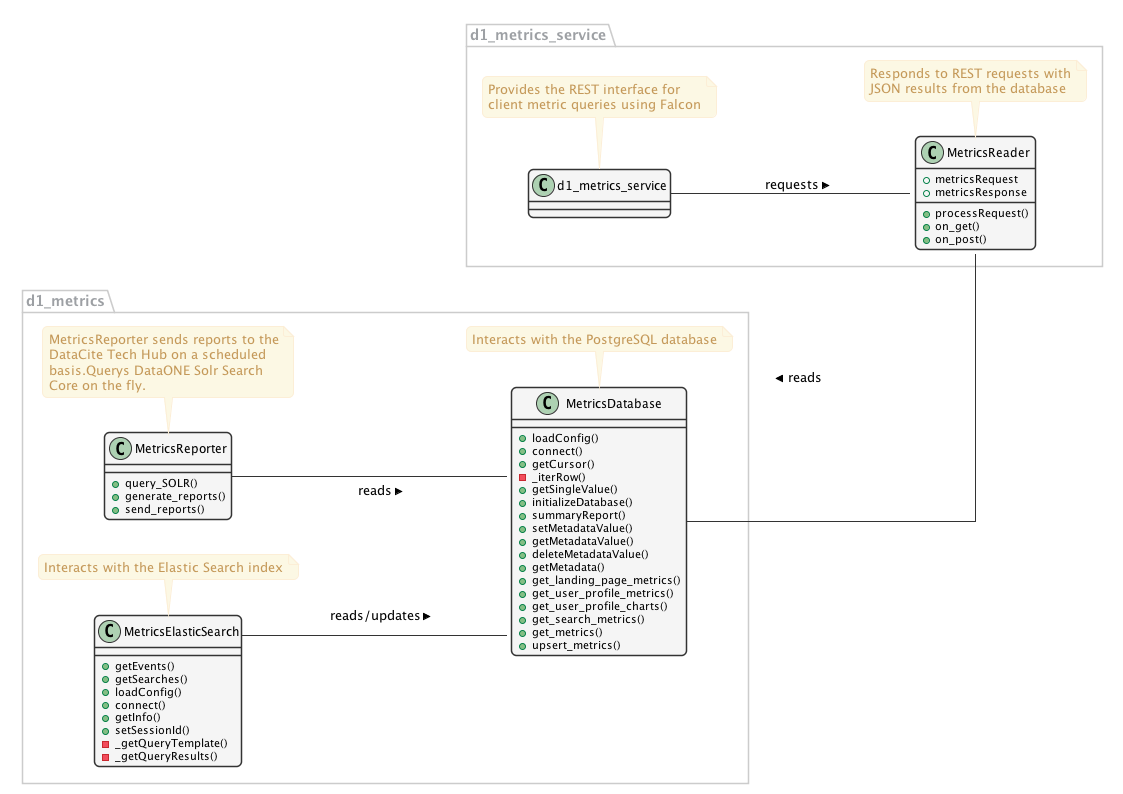
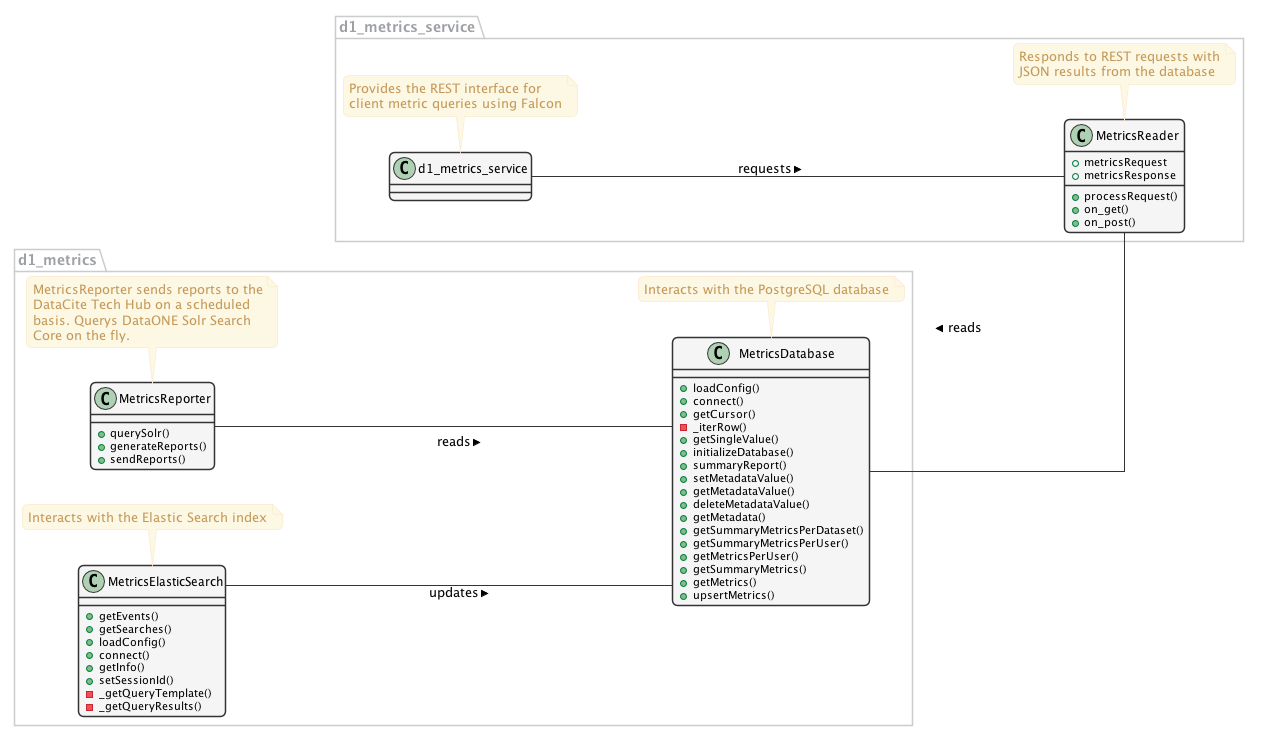
Updated Class Diagram

diff --git a/doc/class-diagram.rst b/doc/class-diagram.rst
@@ -1,17 +1,21 @@
 Metrics Service Class Diagram
 ==============================
 
-- The Falcon `d1_metrics_service.py` is where the Falcon API creates a WSGI application and the Gunicorn server runs this application.
+- The Falcon `d1_metrics_service` class is where the Falcon API creates a WSGI application and the Gunicorn server runs this application.
 
-- Resource object is created from the class `MetricsReader` which is eventually mapped to the end-points into the `d1_metrics_service.py`.
+- Resource object is created from the class `MetricsReader` which is eventually mapped to the end-points into the `d1_metrics_service`.
 
 - The JSON `MetricsRequest` object from the HTTP requests is passed on to the `MetricsReader` class for further processing.
 
 - The `MetricsReader` class parses the `MetricsRequest` object and based on the filtering properties calls the appropriate method of the `MetricsDatabase` class from the `d1_metrics` package.
 
-- The `MetricsDatabase` class has methods that establishes a connection pool and returns a cursor object that can perform the `DBMS CRUD` operations. This class has methods that would query the Database tables and/or Materialized views.
+- The `MetricsDatabase` class has methods that establishes connection and returns a cursor that could perform `CRUD` operations on the database. This class also has multiple methods that helps interact with the PostgreSQL database. 
 
 - The `MetricsDatabase` class retrieves the queries results from the Database and returns the results to the `MetricsReader` class. The `MetricsReader` class forms a `MetricsResponse` object which is sent back to the client as HTTP Response.
+
+- The `MetricsReporter` class queries `solr` to get the metadata for the generation of reports on a scheduled basis. These reports are send to the hub on month-to-month basis.
+
+- The `MetricsElasticSearch` class has methods to retrieve information from the Elastic Search.
 
 
 Class Diagram
@@ -27,90 +31,90 @@ Class Diagram
     ' For class diagram help see http://plantuml.com/class-diagram
     ' Define the classes
 
-package d1_metrics {
-    class MetricsDatabase {
-        + loadConfig()
-        + connect()
-        + getCursor()
-        - _iterRow()
-        + getSingleValue()
-        + initializeDatabase()
-        + summaryReport()
-        + setMetadataValue()
-        + getMetadataValue()
-        + deleteMetadataValue()
-        + getMetadata()
-        + get_landing_page_metrics()
-        + get_user_profile_metrics()
-        + get_user_profile_charts()
-        + get_search_metrics()
-        + get_metrics()
-        + upsert_metrics()
-    }
-    
-    note bottom of MetricsDatabase
-        Interacts with the PostgreSQL database
-    end note
-    
-    class MetricsReporter {
-        + query_SOLR()
-        + generate_reports()
-        + send_reports()
-    }
-    
-    note bottom of MetricsReporter
-        MetricsReporter sends reports to the
-        DataCite Tech Hub on a scheduled 
-        basis.Querys DataONE Solr Search 
-        Core on the fly.
-    end note
-    
-    class MetricsElasticSearch {
-        + getEvents()
-        + getSearches()
-        + loadConfig()
-        + connect()
-        + getInfo()
-        + setSessionId()
-        - _getQueryTemplate()
-        - _getQueryResults()
-    }
-    
-    note bottom of MetricsElasticSearch
-        Interacts with the Elastic Search index
-    end note
-
-}
-
-package d1_metrics_service {
-    class MetricsReader {
-        + metricsRequest
-        + metricsResponse
-        + processRequest()
-        + on_get()
-        + on_post()
-    }
-
-    note bottom of MetricsReader
-        Responds to REST requests with
-        JSON results from the database
-    end note
-
-    class d1_metrics_service {
+    package d1_metrics {
+        class MetricsDatabase {
+            + loadConfig()
+            + connect()
+            + getCursor()
+            - _iterRow()
+            + getSingleValue()
+            + initializeDatabase()
+            + summaryReport()
+            + setMetadataValue()
+            + getMetadataValue()
+            + deleteMetadataValue()
+            + getMetadata()
+            + getSummaryMetricsPerDataset()
+            + getSummaryMetricsPerUser()
+            + getMetricsPerUser()
+            + getSummaryMetrics()
+            + getMetrics()
+            + upsertMetrics()
+        }
+        
+        note bottom of MetricsDatabase
+            Interacts with the PostgreSQL database
+        end note
+        
+        class MetricsReporter {
+            + querySolr()
+            + generateReports()
+            + sendReports()
+        }
+        
+        note bottom of MetricsReporter
+            MetricsReporter sends reports to the
+            DataCite Tech Hub on a scheduled 
+            basis. Querys DataONE Solr Search 
+            Core on the fly.
+        end note
+        
+        class MetricsElasticSearch {
+            + getEvents()
+            + getSearches()
+            + loadConfig()
+            + connect()
+            + getInfo()
+            + setSessionId()
+            - _getQueryTemplate()
+            - _getQueryResults()
+        }
+        
+        note bottom of MetricsElasticSearch
+            Interacts with the Elastic Search index
+        end note
 
     }
-    
-    note bottom of d1_metrics_service
-        Provides the REST interface for
-        client metric queries using Falcon
-    end note
 
-}
+    package d1_metrics_service {
+        class MetricsReader {
+            + metricsRequest
+            + metricsResponse
+            + processRequest()
+            + on_get()
+            + on_post()
+        }
+
+        note bottom of MetricsReader
+            Responds to REST requests with
+            JSON results from the database
+        end note
+
+        class d1_metrics_service {
+
+        }
+        
+        note bottom of d1_metrics_service
+            Provides the REST interface for
+            client metric queries using Falcon
+        end note
+
+    }
 
     ' Define the interactions
     d1_metrics_service -down- MetricsReader: requests > 
     MetricsReader -up- MetricsDatabase: reads >
-    MetricsElasticSearch -down- MetricsDatabase: reads/updates >
+    MetricsElasticSearch -down- MetricsDatabase: updates >
     MetricsReporter -down- MetricsDatabase: reads >
 
 
